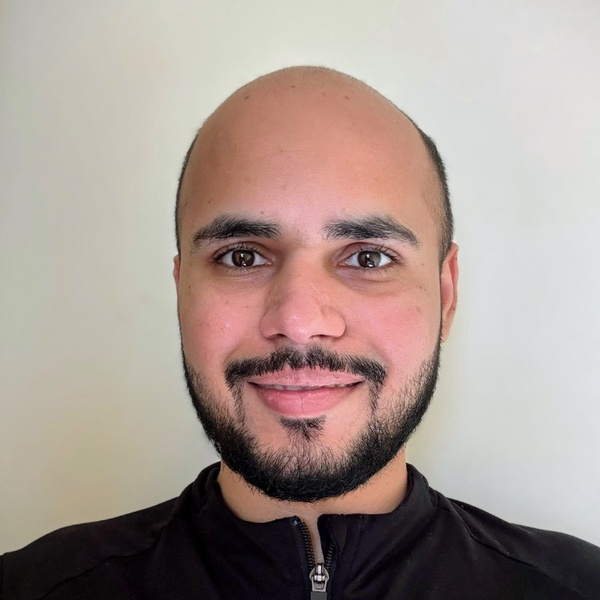
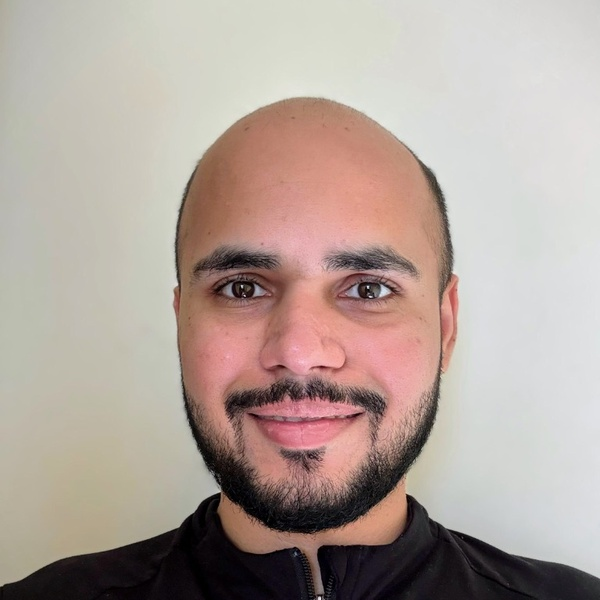
fix(team): fix photo aspect ratio cropping, update Dhiraj portrait framing, add LinkedIns for Sunil and Eswar

Changed region(s): [[0.0, 0.09, 1.0, 1.0], [0.57, 0.24, 0.63, 0.27], [0.66, 0.96, 0.69, 0.99]]

diff --git a/fallbackContent.ts b/fallbackContent.ts
@@ -91,7 +91,7 @@ export const fallbackTeamMembers: TeamMember[] = [
     name: 'Dhiraj Daga',
     role: 'Chief Technical Officer',
     bio: 'AI scientist-engineer leading impactful AI initiatives across education, computer vision, OCR, and Indic-language technologies, including work used by the Supreme Court of India.',
-    photoUrl: '/team/dhiraj-daga.jpg',
+    photoUrl: '/team/dhiraj-daga.jpg?v=3',
     linkedinUrl: 'https://www.linkedin.com/in/dddhiraj',
     displayOrder: 1,
     active: true,
@@ -101,7 +101,7 @@ export const fallbackTeamMembers: TeamMember[] = [
     name: 'Sarthak Jain',
     role: 'Founding AI Engineer',
     bio: 'Worked in multiple ML startups and graduated from IIT(BHU) in 2025.',
-    photoUrl: '/team/sarthak-jain.jpg',
+    photoUrl: '/team/sarthak-jain.jpg?v=3',
     linkedinUrl: 'https://www.linkedin.com/in/sartj/',
     displayOrder: 2,
     active: true,
@@ -111,7 +111,7 @@ export const fallbackTeamMembers: TeamMember[] = [
     name: 'Manik Sharma',
     role: 'Founding AI Engineer',
     bio: 'Graduated from IIT (BHU) in 2026 with an Integrated Dual Degree in Engineering Physics.',
-    photoUrl: '/team/manik-sharma.jpg',
+    photoUrl: '/team/manik-sharma.jpg?v=3',
     linkedinUrl: 'https://in.linkedin.com/in/manik-sharma-72495b24a',
     displayOrder: 3,
     active: true,
@@ -121,7 +121,8 @@ export const fallbackTeamMembers: TeamMember[] = [
     name: 'Sunil Khana',
     role: 'Mentor',
     bio: 'Director - SAI Agroforestry, Co-Founder & Director - GreenBloom Energy',
-    photoUrl: '/team/sunil-khana.jpg',
+    photoUrl: '/team/sunil-khana.jpg?v=3',
+    linkedinUrl: 'https://www.linkedin.com/in/sunil-khanna-8661734/',
     displayOrder: 4,
     active: true,
   },
@@ -130,7 +131,7 @@ export const fallbackTeamMembers: TeamMember[] = [
     name: 'Yash Sahay',
     role: 'Intern',
     bio: 'Data Science student at IIT Madras and passionate on strengthening fundamentals and exploring deeper AI concepts.',
-    photoUrl: '/team/yash-sahay.jpg',
+    photoUrl: '/team/yash-sahay.jpg?v=3',
     linkedinUrl: 'https://www.linkedin.com/in/yash-sahay-profile/',
     displayOrder: 5,
     active: true,
@@ -140,7 +141,8 @@ export const fallbackTeamMembers: TeamMember[] = [
     name: 'Eswar Kompalli',
     role: 'Intern',
     bio: 'Data-driven business analytics student building hands-on experience.',
-    photoUrl: '/team/eswar-kompalli.jpg',
+    photoUrl: '/team/eswar-kompalli.jpg?v=3',
+    linkedinUrl: 'https://www.linkedin.com/in/eswar-kompalli-ab5957318/',
     displayOrder: 6,
     active: true,
   },

diff --git a/src/data/fallbackContent.ts b/src/data/fallbackContent.ts
@@ -91,7 +91,7 @@ export const fallbackTeamMembers: TeamMember[] = [
     name: 'Dhiraj Daga',
     role: 'Chief Technical Officer',
     bio: 'AI scientist-engineer leading impactful AI initiatives across education, computer vision, OCR, and Indic-language technologies, including work used by the Supreme Court of India.',
-    photoUrl: '/team/dhiraj-daga.jpg',
+    photoUrl: '/team/dhiraj-daga.jpg?v=3',
     linkedinUrl: 'https://www.linkedin.com/in/dddhiraj',
     displayOrder: 1,
     active: true,
@@ -101,7 +101,7 @@ export const fallbackTeamMembers: TeamMember[] = [
     name: 'Sarthak Jain',
     role: 'Founding AI Engineer',
     bio: 'Worked in multiple ML startups and graduated from IIT(BHU) in 2025.',
-    photoUrl: '/team/sarthak-jain.jpg',
+    photoUrl: '/team/sarthak-jain.jpg?v=3',
     linkedinUrl: 'https://www.linkedin.com/in/sartj/',
     displayOrder: 2,
     active: true,
@@ -111,7 +111,7 @@ export const fallbackTeamMembers: TeamMember[] = [
     name: 'Manik Sharma',
     role: 'Founding AI Engineer',
     bio: 'Graduated from IIT (BHU) in 2026 with an Integrated Dual Degree in Engineering Physics.',
-    photoUrl: '/team/manik-sharma.jpg',
+    photoUrl: '/team/manik-sharma.jpg?v=3',
     linkedinUrl: 'https://in.linkedin.com/in/manik-sharma-72495b24a',
     displayOrder: 3,
     active: true,
@@ -121,7 +121,8 @@ export const fallbackTeamMembers: TeamMember[] = [
     name: 'Sunil Khana',
     role: 'Mentor',
     bio: 'Director - SAI Agroforestry, Co-Founder & Director - GreenBloom Energy',
-    photoUrl: '/team/sunil-khana.jpg',
+    photoUrl: '/team/sunil-khana.jpg?v=3',
+    linkedinUrl: 'https://www.linkedin.com/in/sunil-khanna-8661734/',
     displayOrder: 4,
     active: true,
   },
@@ -130,7 +131,7 @@ export const fallbackTeamMembers: TeamMember[] = [
     name: 'Yash Sahay',
     role: 'Intern',
     bio: 'Data Science student at IIT Madras and passionate on strengthening fundamentals and exploring deeper AI concepts.',
-    photoUrl: '/team/yash-sahay.jpg',
+    photoUrl: '/team/yash-sahay.jpg?v=3',
     linkedinUrl: 'https://www.linkedin.com/in/yash-sahay-profile/',
     displayOrder: 5,
     active: true,
@@ -140,7 +141,8 @@ export const fallbackTeamMembers: TeamMember[] = [
     name: 'Eswar Kompalli',
     role: 'Intern',
     bio: 'Data-driven business analytics student building hands-on experience.',
-    photoUrl: '/team/eswar-kompalli.jpg',
+    photoUrl: '/team/eswar-kompalli.jpg?v=3',
+    linkedinUrl: 'https://www.linkedin.com/in/eswar-kompalli-ab5957318/',
     displayOrder: 6,
     active: true,
   },

diff --git a/src/styles/global.css b/src/styles/global.css
@@ -837,7 +837,8 @@ footer {
 }
 
 .team-avatar-wrap {
-  height: 260px;
+  width: 100%;
+  aspect-ratio: 1 / 1;
   display: flex;
   align-items: center;
   justify-content: center;
@@ -850,7 +851,7 @@ footer {
   width: 100%;
   height: 100%;
   object-fit: cover;
-  object-position: center top;
+  object-position: center center;
 }
 
 .team-avatar-initials {
